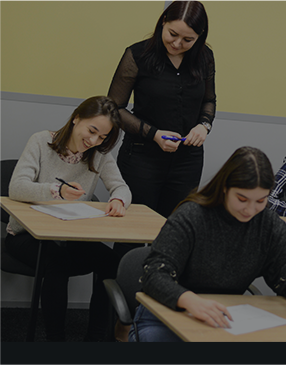
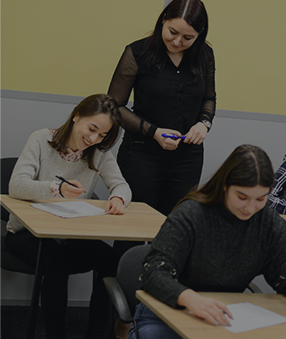
fix tablet

diff --git a/src/sass/components/program/program.scss b/src/sass/components/program/program.scss
@@ -11,6 +11,7 @@ ul {
   padding-bottom: 436px;
   background-image: url(../images/program/mobile/pic.png);
   background-repeat: no-repeat;
+  background-size: 143px 170px;
   background-position: bottom 316px right -18px;
 
   @media (min-resolution: 192dpi) {
@@ -21,6 +22,7 @@ ul {
     padding-top: 62px;
     padding-bottom: 347px;
     background-image: url(../images/program/tablet/pic.png);
+    background-size: 405px 280px;
     background-position: bottom 232px right -10px;
 
     @media (min-resolution: 192dpi) {
@@ -32,6 +34,7 @@ ul {
     padding-top: 70px;
     padding-bottom: 515px;
     background-image: url(../images/program/desktop_1280/pic.png);
+    background-size: 546px 394px;
     background-position: bottom 240px left -6px;
 
     @media (min-resolution: 192dpi) {
@@ -42,6 +45,7 @@ ul {
       padding-top: 118px;
       padding-bottom: 398px;
       background-image: url(../images/program/desktop_1680/pic.png);
+      background-size: 700px 485px;
       background-position: bottom 28px left -24px;
 
       @media (min-resolution: 192dpi) {

diff --git a/src/sass/components/program/program-list.scss b/src/sass/components/program/program-list.scss
@@ -8,8 +8,8 @@
   }
 
   &__item {
-    @media screen and (min-width: $tablet-bp-min) {
-      // width: 180px;
+    @media screen and (min-width: $tablet-bp-min) and (max-width: $tablet-bp-max) {
+      width: 180px;
 
       // &:not(:last-of-type) {
       //   margin-right: 28px;
